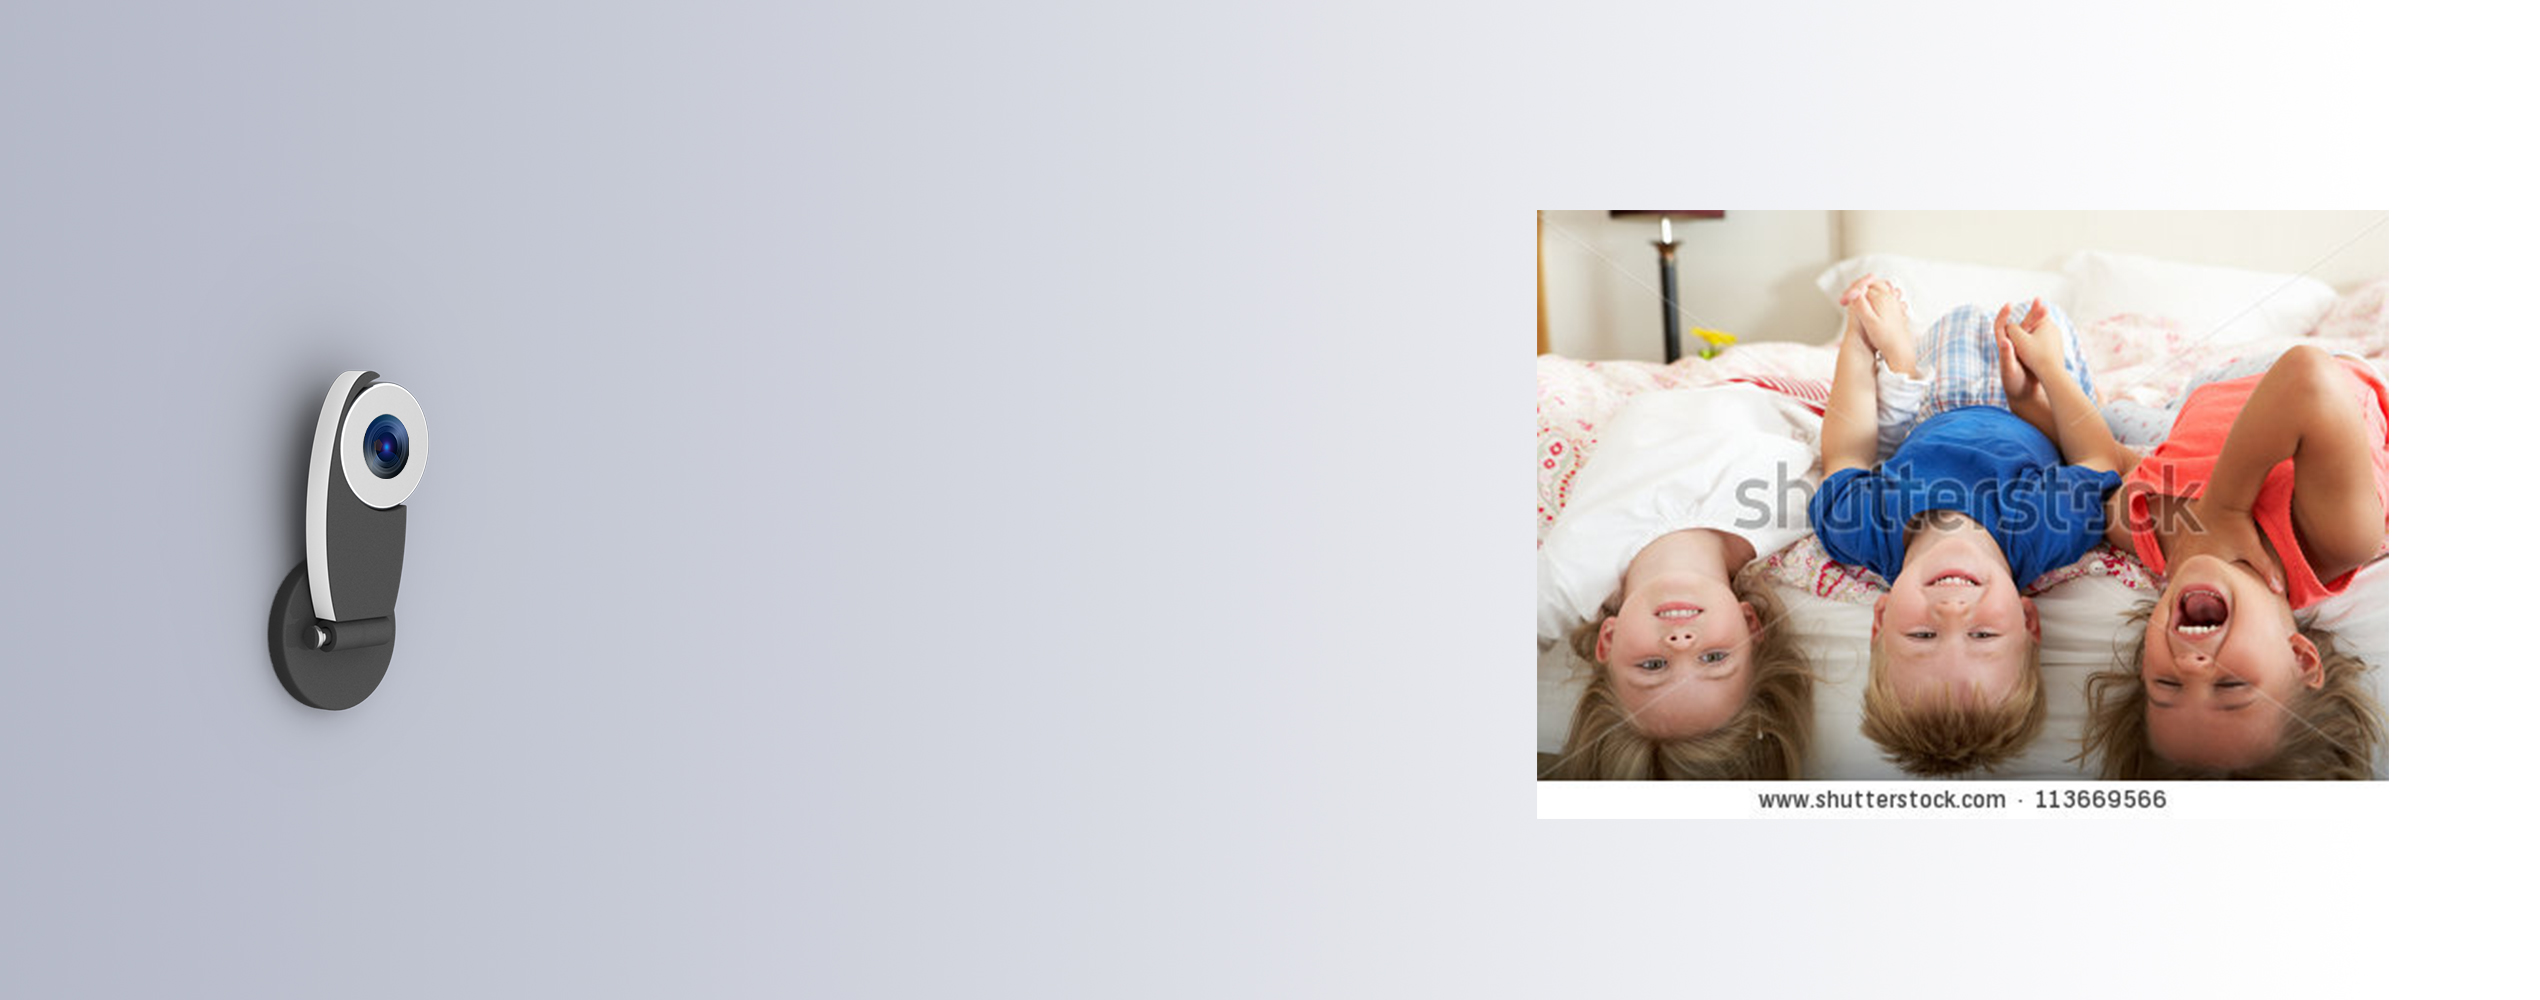
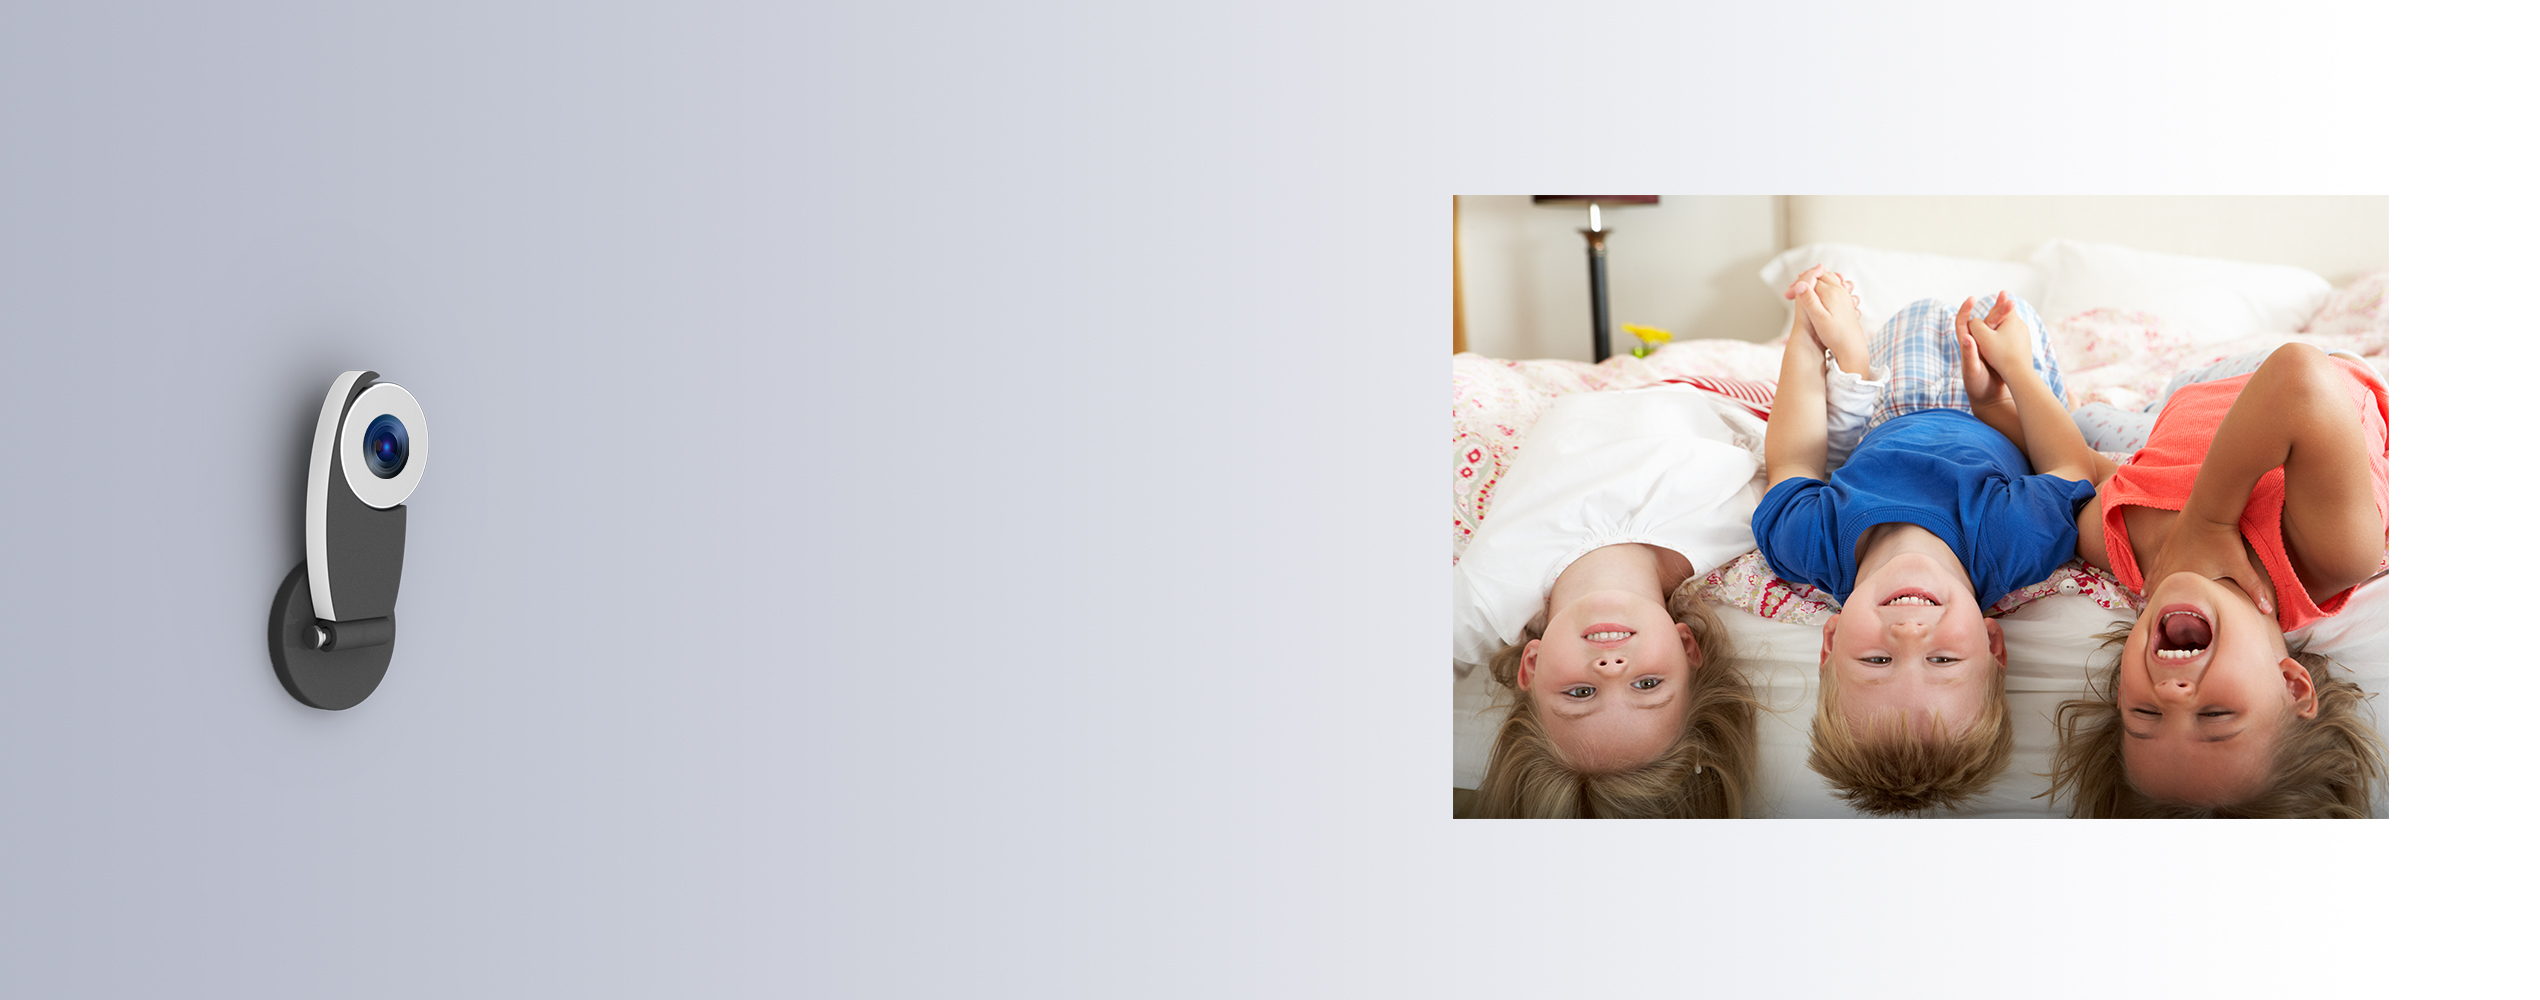
added legit images

Changed region(s): [[0.5598, 0.186, 0.9642, 0.837], [0.902, 0.186, 0.9331, 0.217]]

diff --git a/app/assets/stylesheets/homepage/key_points.css.scss b/app/assets/stylesheets/homepage/key_points.css.scss
@@ -117,7 +117,7 @@
 #wireless_outer
 {
   height: 500px;
-  background: url(image_path("keypointImages/cloudConnectivity.png")) no-repeat center center;
+  background: url(image_path("keypointImages/cloudConnectivity.jpg")) no-repeat center center;
   background-size: 1270px 500px;
   background-position: center top;
 }
